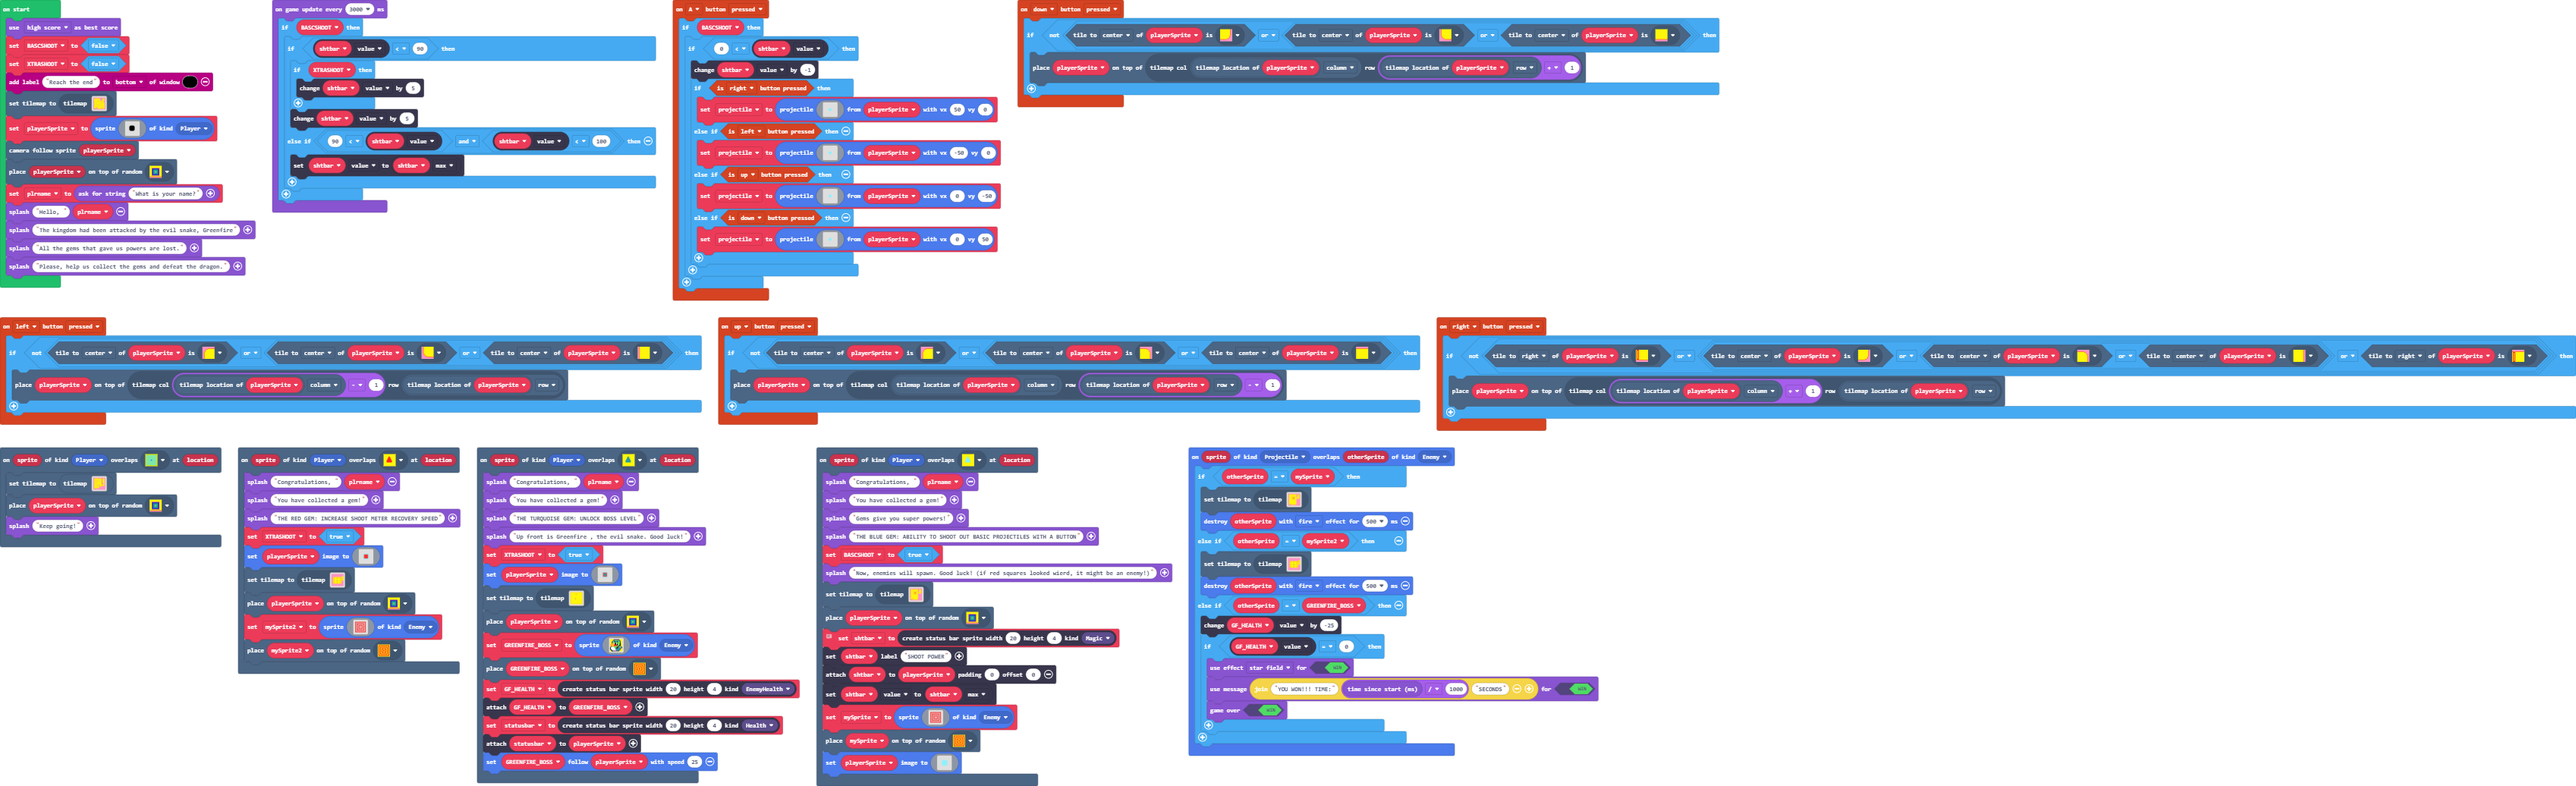
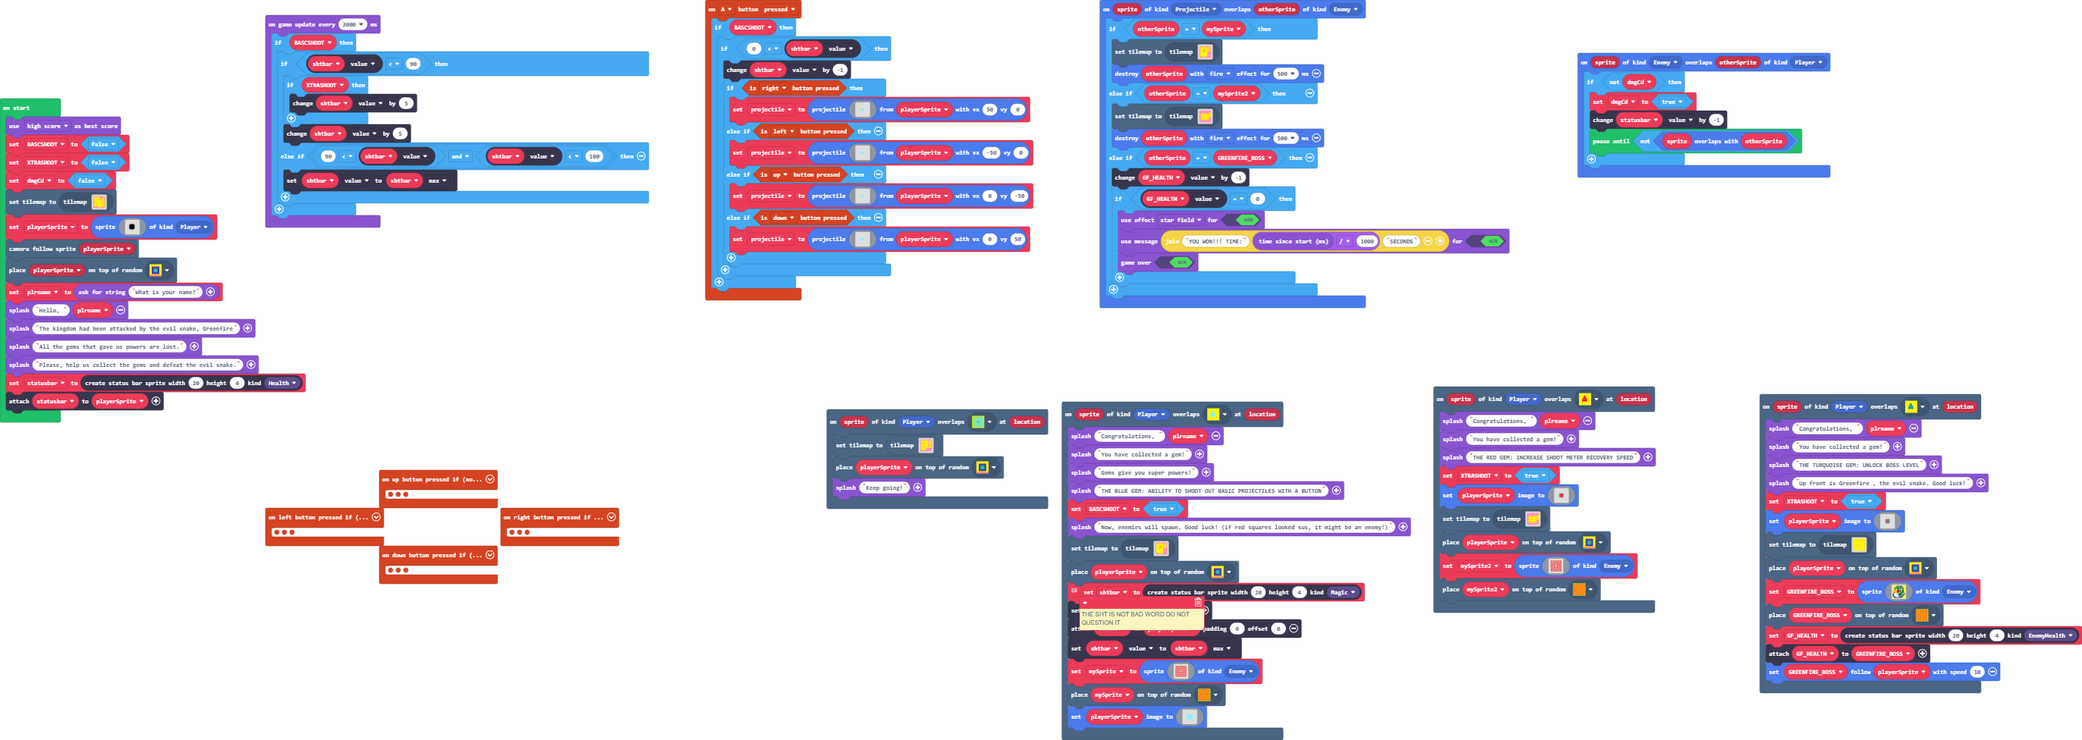
Update main.blocks, main.ts, tilemap.g.jres, tilemap.g.ts

diff --git a/tilemap.g.ts b/tilemap.g.ts
@@ -45,33 +45,12 @@ namespace myTiles {
     //% fixedInstance jres blockIdentity=images._tile
     export const tile6 = image.ofBuffer(hex``);
     //% fixedInstance jres blockIdentity=images._tile
-    export const tile23 = image.ofBuffer(hex``);
-    //% fixedInstance jres blockIdentity=images._tile
     export const tile13 = image.ofBuffer(hex``);
     //% fixedInstance jres blockIdentity=images._tile
     export const tile24 = image.ofBuffer(hex``);
 
     helpers._registerFactory("tilemap", function(name: string) {
         switch(helpers.stringTrim(name)) {
-            case "level1":
-            case "level1":return tiles.createTilemap(hex`1000100000000000000000000000000000000000000000000000000000000000000000000000000000000000000000000000000000000000000000000000000000000000000000000000000000000000000000000000000000000000000000000000000000000000000000000000000000000000000000000000000000000000000000000000000000000000000000000000000000000000000000000000000000000000000000000000000000000000000000000000000000000000000000000000000000000000000000000000000000000000000000000000000000000000000000000000000000000000000000000000000000000000000000000000000000000000`, img`
-. . . . . . . . . . . . . . . . 
-. . . . . . . . . . . . . . . . 
-. . . . . . . . . . . . . . . . 
-. . . . . . . . . . . . . . . . 
-. . . . . . . . . . . . . . . . 
-. . . . . . . . . . . . . . . . 
-. . . . . . . . . . . . . . . . 
-. . . . . . . . . . . . . . . . 
-. . . . . . . . . . . . . . . . 
-. . . . . . . . . . . . . . . . 
-. . . . . . . . . . . . . . . . 
-. . . . . . . . . . . . . . . . 
-. . . . . . . . . . . . . . . . 
-. . . . . . . . . . . . . . . . 
-. . . . . . . . . . . . . . . . 
-. . . . . . . . . . . . . . . . 
-`, [myTiles.transparency16], TileScale.Sixteen);
             case "mazelv1":
[1 lines of base64/hex data omitted]
 2 2 2 2 2 2 2 2 2 2 2 2 2 2 2 2 
@@ -91,82 +70,6 @@ namespace myTiles {
 2 . . . 2 . . . . . . . . . . 2 
 2 2 2 2 2 2 2 2 2 2 2 2 2 2 2 2 
 `, [myTiles.transparency16,myTiles.tile1,myTiles.tile2,myTiles.tile3,myTiles.tile4,myTiles.tile5,myTiles.tile7,myTiles.tile8,myTiles.tile9,myTiles.tile10,myTiles.tile11,myTiles.tile12,myTiles.tile14,myTiles.tile15,myTiles.tile16,myTiles.tile17,myTiles.tile18], TileScale.Sixteen);
-            case "level3":
-            case "level3":return tiles.createTilemap(hex`1000100000000000000000000000000000000000000000000000000000000000000000000000000000000000000000000000000000000000000000000000000000000000000000000000000000000000000000000000000000000000000000000000000000000000000000000000000000000000000000000000000000000000000000000000000000000000000000000000000000000000000000000000000000000000000000000000000000000000000000000000000000000000000000000000000000000000000000000000000000000000000000000000000000000000000000000000000000000000000000000000000000000000000000000000000000000000`, img`
-. . . . . . . . . . . . . . . . 
-. . . . . . . . . . . . . . . . 
-. . . . . . . . . . . . . . . . 
-. . . . . . . . . . . . . . . . 
-. . . . . . . . . . . . . . . . 
-. . . . . . . . . . . . . . . . 
-. . . . . . . . . . . . . . . . 
-. . . . . . . . . . . . . . . . 
-. . . . . . . . . . . . . . . . 
-. . . . . . . . . . . . . . . . 
-. . . . . . . . . . . . . . . . 
-. . . . . . . . . . . . . . . . 
-. . . . . . . . . . . . . . . . 
-. . . . . . . . . . . . . . . . 
-. . . . . . . . . . . . . . . . 
-. . . . . . . . . . . . . . . . 
-`, [myTiles.transparency16], TileScale.Sixteen);
-            case "level5":
-            case "level5":return tiles.createTilemap(hex`1000100000000000000000000000000000000000000000000000000000000000000000000000000000000000000000000000000000000000000000000000000000000000000000000000000000000000000000000000000000000000000000000000000000000000000000000000000000000000000000000000000000000000000000000000000000000000000000000000000000000000000000000000000000000000000000000000000000000000000000000000000000000000000000000000000000000000000000000000000000000000000000000000000000000000000000000000000000000000000000000000000000000000000000000000000000000000`, img`
-. . . . . . . . . . . . . . . . 
-. . . . . . . . . . . . . . . . 
-. . . . . . . . . . . . . . . . 
-. . . . . . . . . . . . . . . . 
-. . . . . . . . . . . . . . . . 
-. . . . . . . . . . . . . . . . 
-. . . . . . . . . . . . . . . . 
-. . . . . . . . . . . . . . . . 
-. . . . . . . . . . . . . . . . 
-. . . . . . . . . . . . . . . . 
-. . . . . . . . . . . . . . . . 
-. . . . . . . . . . . . . . . . 
-. . . . . . . . . . . . . . . . 
-. . . . . . . . . . . . . . . . 
-. . . . . . . . . . . . . . . . 
-. . . . . . . . . . . . . . . . 
-`, [myTiles.transparency16], TileScale.Sixteen);
-            case "level6":
-            case "level6":return tiles.createTilemap(hex`1000100000000000000000000000000000000000000000000000000000000000000000000000000000000000000000000000000000000000000000000000000000000000000000000000000000000000000000000000000000000000000000000000000000000000000000000000000000000000000000000000000000000000000000000000000000000000000000000000000000000000000000000000000000000000000000000000000000000000000000000000000000000000000000000000000000000000000000000000000000000000000000000000000000000000000000000000000000000000000000000000000000000000000000000000000000000000`, img`
-. . . . . . . . . . . . . . . . 
-. . . . . . . . . . . . . . . . 
-. . . . . . . . . . . . . . . . 
-. . . . . . . . . . . . . . . . 
-. . . . . . . . . . . . . . . . 
-. . . . . . . . . . . . . . . . 
-. . . . . . . . . . . . . . . . 
-. . . . . . . . . . . . . . . . 
-. . . . . . . . . . . . . . . . 
-. . . . . . . . . . . . . . . . 
-. . . . . . . . . . . . . . . . 
-. . . . . . . . . . . . . . . . 
-. . . . . . . . . . . . . . . . 
-. . . . . . . . . . . . . . . . 
-. . . . . . . . . . . . . . . . 
-. . . . . . . . . . . . . . . . 
-`, [myTiles.transparency16], TileScale.Sixteen);
-            case "level7":
-            case "level7":return tiles.createTilemap(hex`1000100000000000000000000000000000000000000000000000000000000000000000000000000000000000000000000000000000000000000000000000000000000000000000000000000000000000000000000000000000000000000000000000000000000000000000000000000000000000000000000000000000000000000000000000000000000000000000000000000000000000000000000000000000000000000000000000000000000000000000000000000000000000000000000000000000000000000000000000000000000000000000000000000000000000000000000000000000000000000000000000000000000000000000000000000000000000`, img`
-. . . . . . . . . . . . . . . . 
-. . . . . . . . . . . . . . . . 
-. . . . . . . . . . . . . . . . 
-. . . . . . . . . . . . . . . . 
-. . . . . . . . . . . . . . . . 
-. . . . . . . . . . . . . . . . 
-. . . . . . . . . . . . . . . . 
-. . . . . . . . . . . . . . . . 
-. . . . . . . . . . . . . . . . 
-. . . . . . . . . . . . . . . . 
-. . . . . . . . . . . . . . . . 
-. . . . . . . . . . . . . . . . 
-. . . . . . . . . . . . . . . . 
-. . . . . . . . . . . . . . . . 
-. . . . . . . . . . . . . . . . 
-. . . . . . . . . . . . . . . . 
-`, [myTiles.transparency16], TileScale.Sixteen);
             case "level0":
[1 lines of base64/hex data omitted]
 . . . . . . . . . . . . . . . . 
@@ -186,44 +89,6 @@ namespace myTiles {
 . . . . . . . . . . . . . . . . 
 . . . . . . . . . . . . . . . . 
 `, [myTiles.transparency16,myTiles.tile2,myTiles.tile3,myTiles.tile11,myTiles.tile12,myTiles.tile14,myTiles.tile19,myTiles.tile1,myTiles.tile4,myTiles.tile5,myTiles.tile7,myTiles.tile8,myTiles.tile9,myTiles.tile10,myTiles.tile15,myTiles.tile16,myTiles.tile17], TileScale.Sixteen);
-            case "level10":
-            case "level10":return tiles.createTilemap(hex`1000100000000000000000000000000000000000000000000000000000000000000000000000000000000000000000000000000000000000000000000000000000000000000000000000000000000000000000000000000000000000000000000000000000000000000000000000000000000000000000000000000000000000000000000000000000000000000000000000000000000000000000000000000000000000000000000000000000000000000000000000000000000000000000000000000000000000000000000000000000000000000000000000000000000000000000000000000000000000000000000000000000000000000000000000000000000000`, img`
-. . . . . . . . . . . . . . . . 
-. . . . . . . . . . . . . . . . 
-. . . . . . . . . . . . . . . . 
-. . . . . . . . . . . . . . . . 
-. . . . . . . . . . . . . . . . 
-. . . . . . . . . . . . . . . . 
-. . . . . . . . . . . . . . . . 
-. . . . . . . . . . . . . . . . 
-. . . . . . . . . . . . . . . . 
-. . . . . . . . . . . . . . . . 
-. . . . . . . . . . . . . . . . 
-. . . . . . . . . . . . . . . . 
-. . . . . . . . . . . . . . . . 
-. . . . . . . . . . . . . . . . 
-. . . . . . . . . . . . . . . . 
-. . . . . . . . . . . . . . . . 
-`, [myTiles.transparency16], TileScale.Sixteen);
-            case "level11":
-            case "level11":return tiles.createTilemap(hex`1000100000000000000000000000000000000000000000000000000000000000000000000000000000000000000000000000000000000000000000000000000000000000000000000000000000000000000000000000000000000000000000000000000000000000000000000000000000000000000000000000000000000000000000000000000000000000000000000000000000000000000000000000000000000000000000000000000000000000000000000000000000000000000000000000000000000000000000000000000000000000000000000000000000000000000000000000000000000000000000000000000000000000000000000000000000000000`, img`
-. . . . . . . . . . . . . . . . 
-. . . . . . . . . . . . . . . . 
-. . . . . . . . . . . . . . . . 
-. . . . . . . . . . . . . . . . 
-. . . . . . . . . . . . . . . . 
-. . . . . . . . . . . . . . . . 
-. . . . . . . . . . . . . . . . 
-. . . . . . . . . . . . . . . . 
-. . . . . . . . . . . . . . . . 
-. . . . . . . . . . . . . . . . 
-. . . . . . . . . . . . . . . . 
-. . . . . . . . . . . . . . . . 
-. . . . . . . . . . . . . . . . 
-. . . . . . . . . . . . . . . . 
-. . . . . . . . . . . . . . . . 
-. . . . . . . . . . . . . . . . 
-`, [myTiles.transparency16], TileScale.Sixteen);
             case "level9":
[1 lines of base64/hex data omitted]
 . . . . . . . . . . . . . . . . 
@@ -262,25 +127,6 @@ namespace myTiles {
 . . . . . . . . . . . . . . . . 
 . . . . . . . . . . . . . . . . 
 `, [myTiles.transparency16,myTiles.tile1,myTiles.tile2,myTiles.tile3,myTiles.tile4,myTiles.tile5,myTiles.tile7,myTiles.tile8,myTiles.tile9,myTiles.tile10,myTiles.tile11,myTiles.tile12,myTiles.tile14,myTiles.tile15,myTiles.tile16,myTiles.tile17,myTiles.tile20,myTiles.tile6,myTiles.tile13,myTiles.tile24], TileScale.Sixteen);
-            case "level13":
-            case "level13":return tiles.createTilemap(hex`1000100000000000000000000000000000000000000000000000000000000000000000000000000000000000000000000000000000000000000000000000000000000000000000000000000000000000000000000000000000000000000000000000000000000000000000000000000000000000000000000000000000000000000000000000000000000000000000000000000000000000000000000000000000000000000000000000000000000000000000000000000000000000000000000000000000000000000000000000000000000000000000000000000000000000000000000000000000000000000000000000000000000000000000000000000000000000`, img`
-. . . . . . . . . . . . . . . . 
-. . . . . . . . . . . . . . . . 
-. . . . . . . . . . . . . . . . 
-. . . . . . . . . . . . . . . . 
-. . . . . . . . . . . . . . . . 
-. . . . . . . . . . . . . . . . 
-. . . . . . . . . . . . . . . . 
-. . . . . . . . . . . . . . . . 
-. . . . . . . . . . . . . . . . 
-. . . . . . . . . . . . . . . . 
-. . . . . . . . . . . . . . . . 
-. . . . . . . . . . . . . . . . 
-. . . . . . . . . . . . . . . . 
-. . . . . . . . . . . . . . . . 
-. . . . . . . . . . . . . . . . 
-. . . . . . . . . . . . . . . . 
-`, [myTiles.transparency16], TileScale.Sixteen);
             case "level14":
[1 lines of base64/hex data omitted]
 . . . . . . . . . . . . . . . . 
@@ -319,25 +165,6 @@ namespace myTiles {
 . . . . . . . . . . . . . . . . 
 . . . . . . . . . . . . . . . . 
 `, [myTiles.transparency16,myTiles.tile1,myTiles.tile2,myTiles.tile3,myTiles.tile4,myTiles.tile5,myTiles.tile7,myTiles.tile8,myTiles.tile9,myTiles.tile10,myTiles.tile11,myTiles.tile12,myTiles.tile14,myTiles.tile15,myTiles.tile16,myTiles.tile17,myTiles.tile21,myTiles.tile6], TileScale.Sixteen);
-            case "level17":
-            case "level17":return tiles.createTilemap(hex`1000100000000000000000000000000000000000000000000000000000000000000000000000000000000000000000000000000000000000000000000000000000000000000000000000000000000000000000000000000000000000000000000000000000000000000000000000000000000000000000000000000000000000000000000000000000000000000000000000000000000000000000000000000000000000000000000000000000000000000000000000000000000000000000000000000000000000000000000000000000000000000000000000000000000000000000000000000000000000000000000000000000000000000000000000000000000000`, img`
-. . . . . . . . . . . . . . . . 
-. . . . . . . . . . . . . . . . 
-. . . . . . . . . . . . . . . . 
-. . . . . . . . . . . . . . . . 
-. . . . . . . . . . . . . . . . 
-. . . . . . . . . . . . . . . . 
-. . . . . . . . . . . . . . . . 
-. . . . . . . . . . . . . . . . 
-. . . . . . . . . . . . . . . . 
-. . . . . . . . . . . . . . . . 
-. . . . . . . . . . . . . . . . 
-. . . . . . . . . . . . . . . . 
-. . . . . . . . . . . . . . . . 
-. . . . . . . . . . . . . . . . 
-. . . . . . . . . . . . . . . . 
-. . . . . . . . . . . . . . . . 
-`, [myTiles.transparency16], TileScale.Sixteen);
             case "level16":
[1 lines of base64/hex data omitted]
 . . . . . . . . . . . . . . . . 
@@ -406,8 +233,6 @@ namespace myTiles {
             case "tile22":return tile22;
             case "myTile4":
             case "tile6":return tile6;
-            case "myTile21":
-            case "tile23":return tile23;
             case "myTile11":
             case "tile13":return tile13;
             case "myTile22":

diff --git a/main.ts b/main.ts
@@ -28,9 +28,7 @@ scene.onOverlapTile(SpriteKind.Player, assets.tile`myTile19`, function (sprite, 
     tiles.placeOnRandomTile(GREENFIRE_BOSS, assets.tile`myTile4`)
     GF_HEALTH = statusbars.create(20, 4, StatusBarKind.EnemyHealth)
     GF_HEALTH.attachToSprite(GREENFIRE_BOSS)
-    statusbar = statusbars.create(20, 4, StatusBarKind.Health)
-    statusbar.attachToSprite(playerSprite)
-    GREENFIRE_BOSS.follow(playerSprite, 25)
+    GREENFIRE_BOSS.follow(playerSprite, 10)
 })
 controller.up.onEvent(ControllerButtonEvent.Pressed, function () {
     if (!(playerSprite.tileKindAt(TileDirection.Center, assets.tile`myTile`) || (playerSprite.tileKindAt(TileDirection.Center, assets.tile`myTile2`) || playerSprite.tileKindAt(TileDirection.Center, assets.tile`myTile3`)))) {
@@ -121,11 +119,6 @@ controller.A.onEvent(ControllerButtonEvent.Pressed, function () {
         }
     }
 })
-controller.left.onEvent(ControllerButtonEvent.Pressed, function () {
-    if (!(playerSprite.tileKindAt(TileDirection.Center, assets.tile`myTile`) || (playerSprite.tileKindAt(TileDirection.Center, assets.tile`myTile0`) || playerSprite.tileKindAt(TileDirection.Center, assets.tile`myTile5`)))) {
-        tiles.placeOnTile(playerSprite, tiles.getTileLocation(playerSprite.tilemapLocation().column - 1, playerSprite.tilemapLocation().row))
-    }
-})
 scene.onOverlapTile(SpriteKind.Player, assets.tile`myTile18`, function (sprite, location) {
     game.splash("Congratulations, ", plrname)
     game.splash("You have collected a gem!")
@@ -158,18 +151,13 @@ scene.onOverlapTile(SpriteKind.Player, assets.tile`myTile16`, function (sprite, 
     tiles.placeOnRandomTile(playerSprite, assets.tile`myTile10`)
     game.splash("Keep going!")
 })
-controller.right.onEvent(ControllerButtonEvent.Pressed, function () {
-    if (!(playerSprite.tileKindAt(TileDirection.Right, assets.tile`myTile22`) || (playerSprite.tileKindAt(TileDirection.Center, assets.tile`myTile1`) || (playerSprite.tileKindAt(TileDirection.Center, assets.tile`myTile2`) || playerSprite.tileKindAt(TileDirection.Center, assets.tile`myTile7`)) || playerSprite.tileKindAt(TileDirection.Right, assets.tile`myTile11`)))) {
-        tiles.placeOnTile(playerSprite, tiles.getTileLocation(playerSprite.tilemapLocation().column + 1, playerSprite.tilemapLocation().row))
-    }
-})
 scene.onOverlapTile(SpriteKind.Player, assets.tile`myTile17`, function (sprite, location) {
     game.splash("Congratulations, ", plrname)
     game.splash("You have collected a gem!")
     game.splash("Gems give you super powers!")
     game.splash("THE BLUE GEM: ABILITY TO SHOOT OUT BASIC PROJECTILES WITH A BUTTON")
     BASCSHOOT = true
-    game.splash("Now, enemies will spawn. Good luck! (if red squares looked wierd, it might be an enemy!)")
+    game.splash("Now, enemies will spawn. Good luck! (if red squares looked sus, it might be an enemy!)")
     tiles.setCurrentTilemap(tilemap`level12`)
     tiles.placeOnRandomTile(playerSprite, assets.tile`myTile10`)
     // THE SHT IS NOT BAD WORD DO NOT QUESTION IT
@@ -197,6 +185,23 @@ scene.onOverlapTile(SpriteKind.Player, assets.tile`myTile17`, function (sprite, 
     tiles.placeOnRandomTile(mySprite, assets.tile`myTile4`)
     playerSprite.setImage(assets.image`dot player STAGE 2`)
 })
+sprites.onOverlap(SpriteKind.Enemy, SpriteKind.Player, function (sprite, otherSprite) {
+    if (!(dmgCd)) {
+        dmgCd = true
+        statusbar.value += -1
+        pauseUntil(() => !(sprite.overlapsWith(otherSprite)))
+    }
+})
+controller.left.onEvent(ControllerButtonEvent.Pressed, function () {
+    if (!(playerSprite.tileKindAt(TileDirection.Center, assets.tile`myTile`) || (playerSprite.tileKindAt(TileDirection.Center, assets.tile`myTile0`) || playerSprite.tileKindAt(TileDirection.Center, assets.tile`myTile5`)))) {
+        tiles.placeOnTile(playerSprite, tiles.getTileLocation(playerSprite.tilemapLocation().column - 1, playerSprite.tilemapLocation().row))
+    }
+})
+controller.right.onEvent(ControllerButtonEvent.Pressed, function () {
+    if (!(playerSprite.tileKindAt(TileDirection.Right, assets.tile`myTile22`) || (playerSprite.tileKindAt(TileDirection.Center, assets.tile`myTile1`) || (playerSprite.tileKindAt(TileDirection.Center, assets.tile`myTile2`) || playerSprite.tileKindAt(TileDirection.Center, assets.tile`myTile7`)) || playerSprite.tileKindAt(TileDirection.Right, assets.tile`myTile11`)))) {
+        tiles.placeOnTile(playerSprite, tiles.getTileLocation(playerSprite.tilemapLocation().column + 1, playerSprite.tilemapLocation().row))
+    }
+})
 controller.down.onEvent(ControllerButtonEvent.Pressed, function () {
     if (!(playerSprite.tileKindAt(TileDirection.Center, assets.tile`myTile1`) || (playerSprite.tileKindAt(TileDirection.Center, assets.tile`myTile0`) || playerSprite.tileKindAt(TileDirection.Center, assets.tile`myTile6`)))) {
         tiles.placeOnTile(playerSprite, tiles.getTileLocation(playerSprite.tilemapLocation().column, playerSprite.tilemapLocation().row + 1))
@@ -210,7 +215,7 @@ sprites.onOverlap(SpriteKind.Projectile, SpriteKind.Enemy, function (sprite, oth
         tiles.setCurrentTilemap(tilemap`level15`)
         sprites.destroy(otherSprite, effects.fire, 500)
     } else if (otherSprite == GREENFIRE_BOSS) {
-        GF_HEALTH.value += -25
+        GF_HEALTH.value += -1
         if (GF_HEALTH.value == 0) {
             game.setGameOverEffect(true, effects.starField)
             game.setGameOverMessage(true, "YOU WON!!! TIME:" + game.runtime() / 1000 + "SECONDS")
@@ -222,17 +227,18 @@ let mySprite: Sprite = null
 let mySprite2: Sprite = null
 let projectile: Sprite = null
 let shtbar: StatusBarSprite = null
-let statusbar: StatusBarSprite = null
 let GF_HEALTH: StatusBarSprite = null
 let GREENFIRE_BOSS: Sprite = null
+let statusbar: StatusBarSprite = null
 let plrname = ""
 let playerSprite: Sprite = null
+let dmgCd = false
 let XTRASHOOT = false
 let BASCSHOOT = false
 game.setGameOverScoringType(game.ScoringType.HighScore)
 BASCSHOOT = false
 XTRASHOOT = false
-carnival.addLabelTo("Reach the end", carnival.Areas.Bottom, 15)
+dmgCd = false
 tiles.setCurrentTilemap(tilemap`mazelv1`)
 playerSprite = sprites.create(assets.image`dot player ORIGINAL`, SpriteKind.Player)
 scene.cameraFollowSprite(playerSprite)
@@ -241,7 +247,9 @@ plrname = game.askForString("What is your name?")
 game.splash("Hello, ", plrname)
 game.splash("The kingdom had been attacked by the evil snake, Greenfire")
 game.splash("All the gems that gave us powers are lost.")
-game.splash("Please, help us collect the gems and defeat the dragon.")
+game.splash("Please, help us collect the gems and defeat the evil snake.")
+statusbar = statusbars.create(20, 4, StatusBarKind.Health)
+statusbar.attachToSprite(playerSprite)
 game.onUpdateInterval(3000, function () {
     if (BASCSHOOT) {
         if (shtbar.value < 90) {
